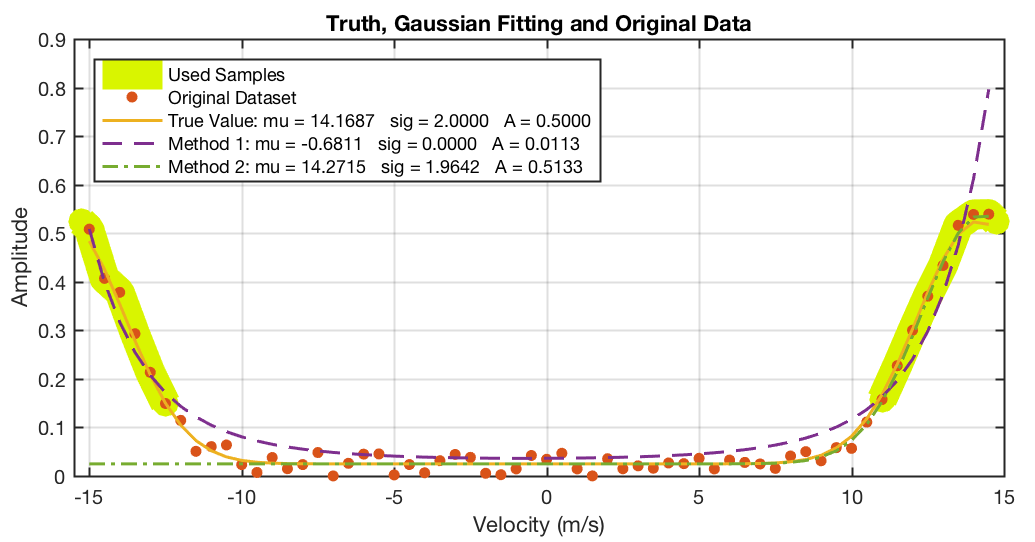
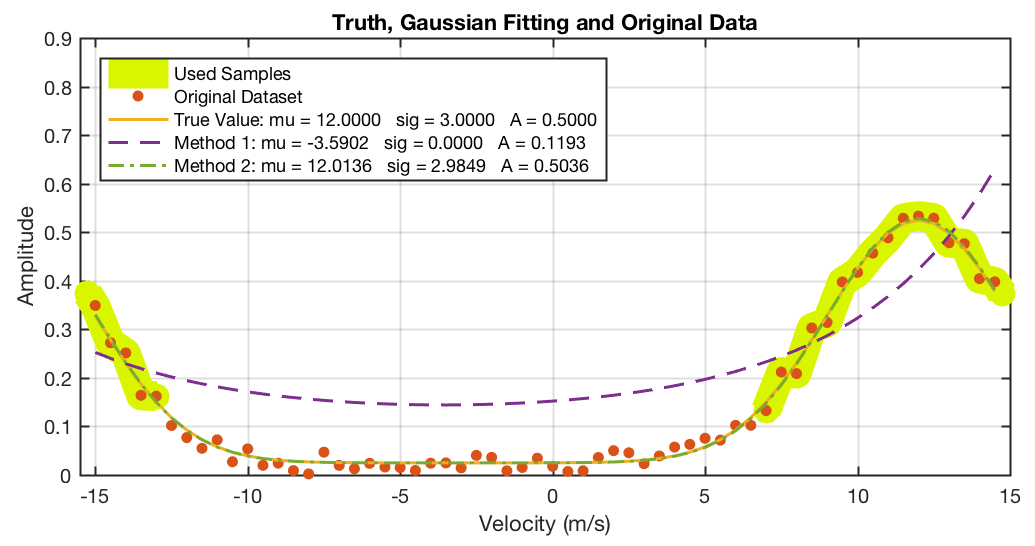
Added the main function

Changed region(s): [[0.0, 0.0295, 0.9894, 0.9446], [0.4638, 0.9446, 0.5874, 1.0]]

diff --git a/gaussfit.m b/gaussfit.m
@@ -1,0 +1,43 @@
+function [A, sig, mu] = gaussfit(x, y, va)
+
+if ~exist('va', 'var')
+    sum_x = sum(x);
+    sum_x2 = sum(x .^ 2);
+    sum_x3 = sum(x .^ 3);
+    sum_x4 = sum(x .^ 4);
+    M = [numel(x) sum_x sum_x2; sum_x sum_x2 sum_x3; sum_x2 sum_x3 sum_x4];
+    B = [sum(log(y)); sum(x .* log(y)); sum(x .^ 2 .* log(y))];
+    d = M \ B;
+
+    a = d(1); b = d(2); c = d(3);
+
+    mu = -b / (2 * c);
+    sig = sqrt(-1 / (2 * c));
+    A = exp(a - b ^ 2 / (4 * c));
+else
+    % Normalized angle in [-pi, pi):
+    omega = x / va * pi;
+
+    % Complex-plane representation
+    c = max(0, y) .* exp(1i * omega);
+    
+    % Average from the wheel
+    mu = angle(sum(c));
+
+    % Demodulate it down (which mean now is zero-mean Gaussian)
+    d = c * exp(-1i * mu);
+
+    % New x-axis
+    x = angle(d) / pi * va;
+
+    sum_x2 = sum(abs(x) .^ 2);
+    sum_x4 = sum(abs(x) .^ 4);
+    M = [numel(x) sum_x2; sum_x2 sum_x4];
+    B = [sum(log(y)); sum(x .^ 2 .* log(y))];
+    d = M \ B;
+    a = d(1); c = d(2);
+
+    mu = mu / pi * va;
+    sig = sqrt(-1 / (2 * c));
+    A = exp(a);
+end
